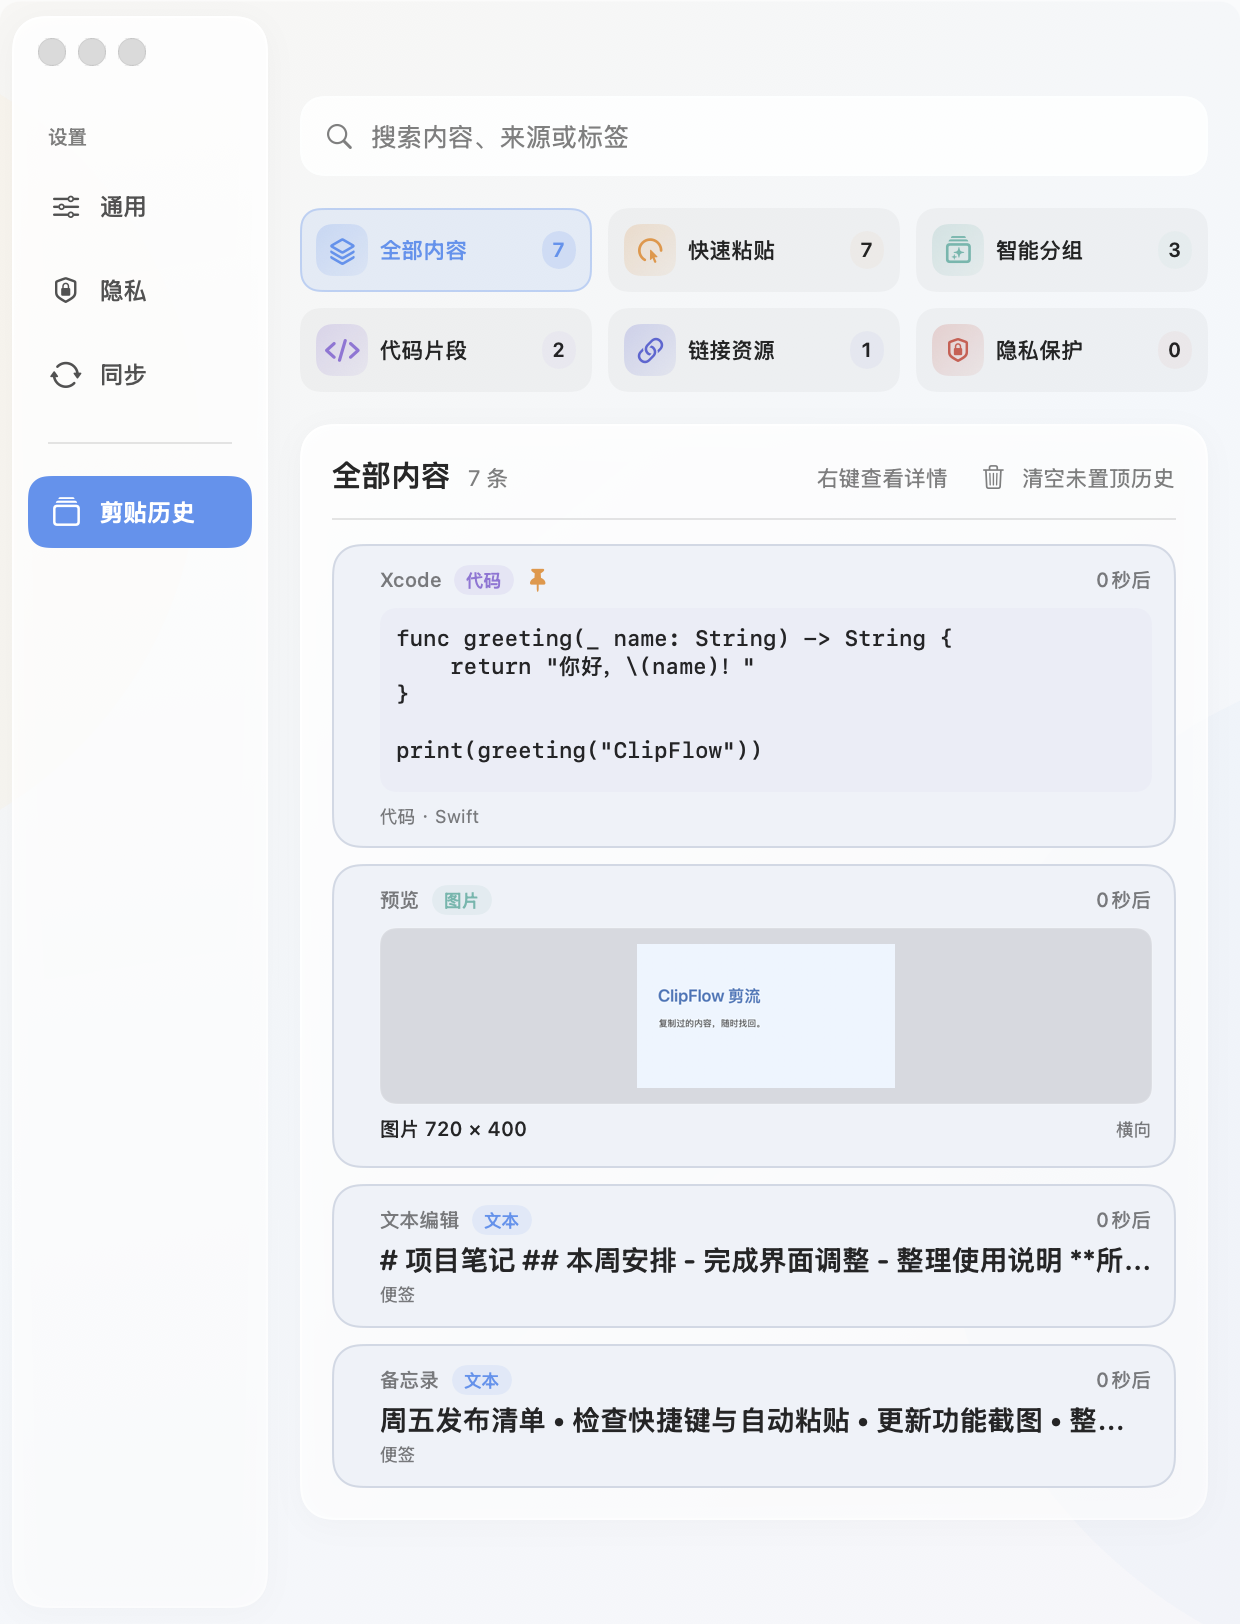
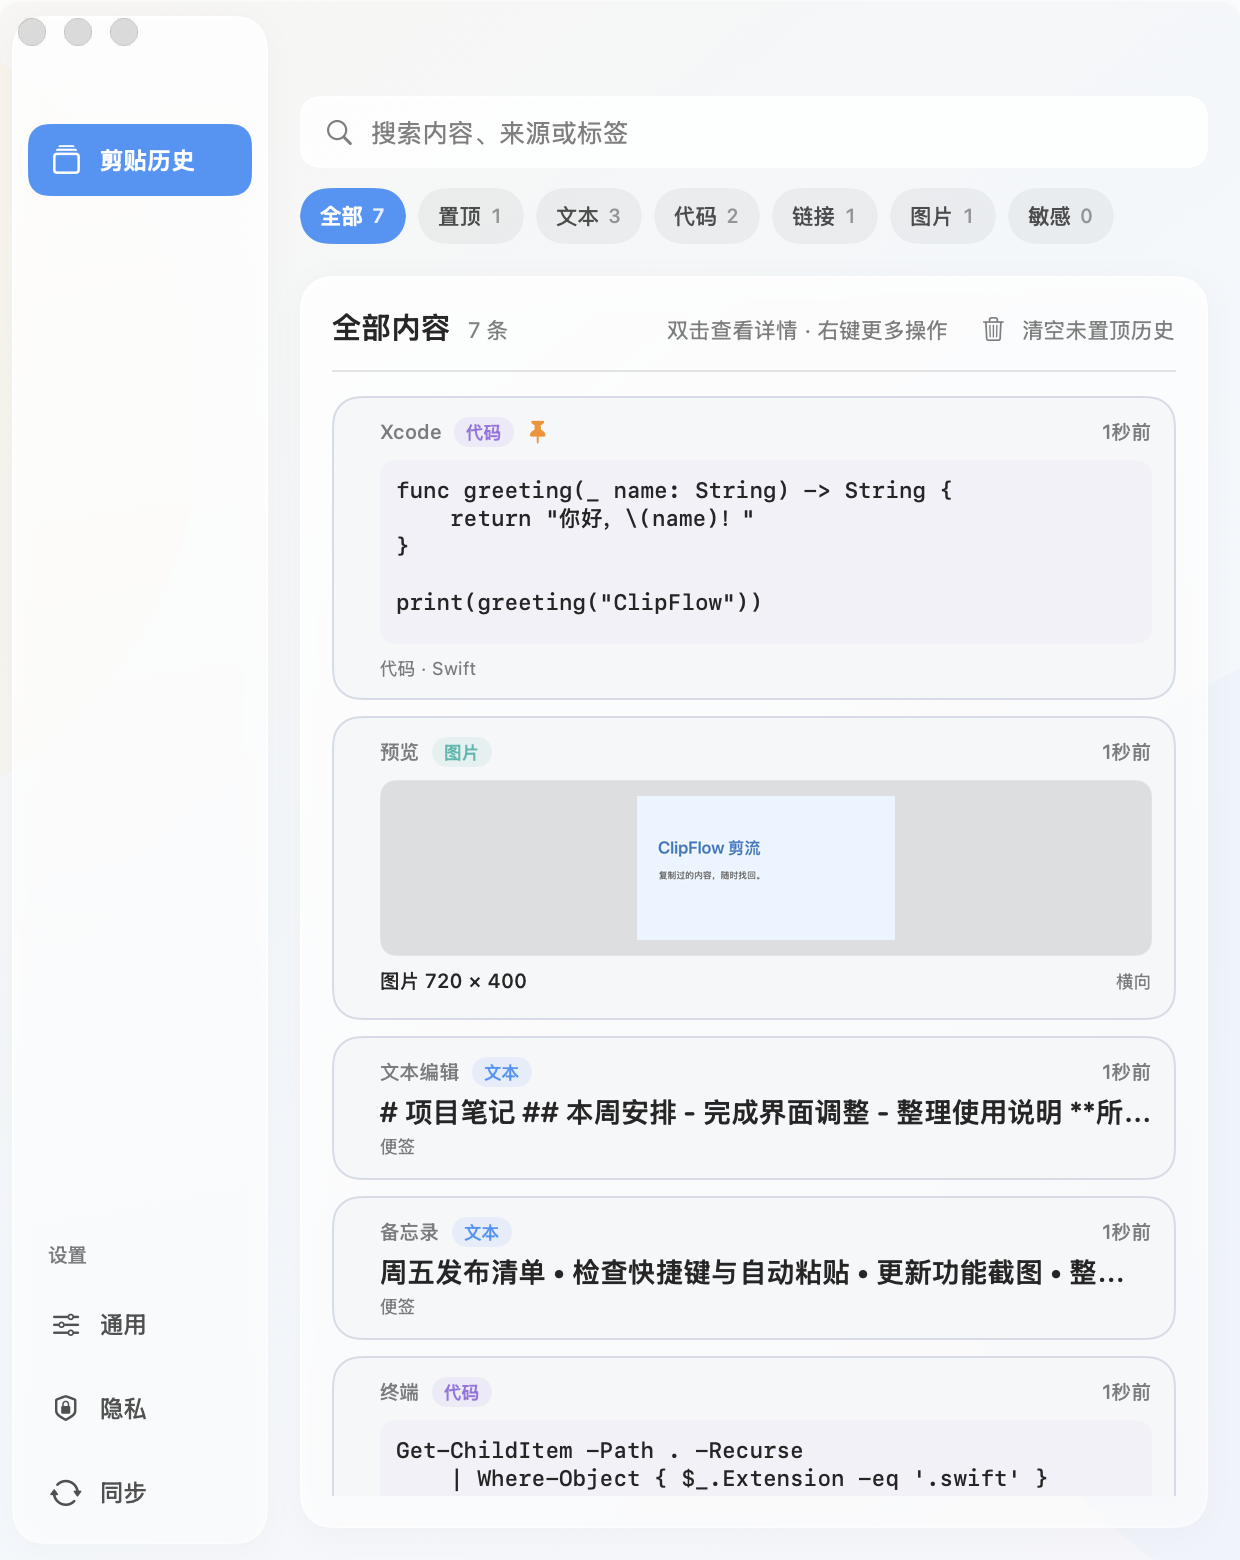
docs: regenerate README screenshots for the refreshed layout
Wait a second after seeding the demo data so rows do not read "0秒后".

diff --git a/Tests/ClipFlowAppTests/DocumentationScreenshotTests.swift b/Tests/ClipFlowAppTests/DocumentationScreenshotTests.swift
@@ -56,6 +56,8 @@ final class DocumentationScreenshotTests: XCTestCase {
             size: sample.size, sourceApp: "预览", sourceBundleID: nil)
         let imageItem = try XCTUnwrap(store.items.first(where: \.isImage))
         store.lastCaptureStatus = "正在监听系统剪贴板"
+        // Rows render their relative time once; items under a second old read "0秒后".
+        RunLoop.main.run(until: Date().addingTimeInterval(1.1))
 
         func save(_ view: NSView, name: String) throws {
             view.layoutSubtreeIfNeeded()
@@ -160,6 +162,7 @@ final class DocumentationScreenshotTests: XCTestCase {
             sourceBundleID: nil, autoProtectSecrets: false, existingItem: nil)
         let markdown = ClipboardClassifier.makeItem(text: markdownText, sourceApp: "文本编辑",
             sourceBundleID: nil, autoProtectSecrets: false, existingItem: nil)
+        RunLoop.main.run(until: Date().addingTimeInterval(1.1))
         func detail(_ item: ClipboardItem) -> some View {
             ZStack(alignment: .top) {
                 Color.white
